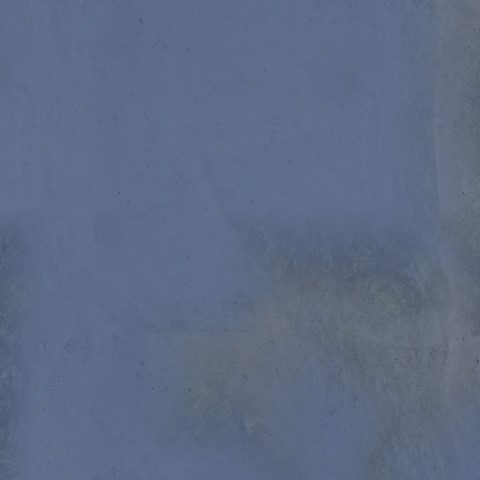
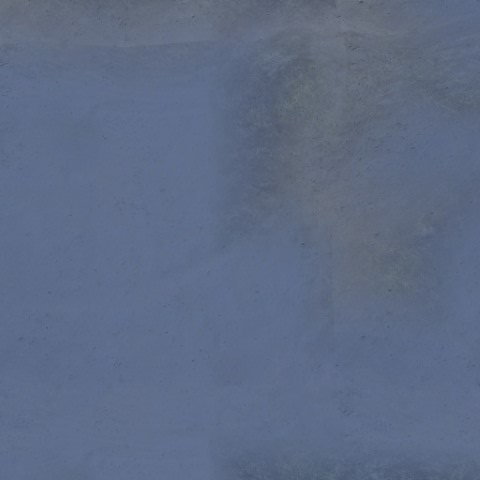
Skybox tweaks

diff --git a/skybox.cpp b/skybox.cpp
@@ -10,7 +10,7 @@ void Skybox::draw(Camera& camera) {
     skybox_view = glm::mat4(glm::mat3(camera.getViewMatrix()));
 
     
-    glm::mat4 projection_matrix = camera.getProjectionMatrix();
+    glm::mat4 projection_matrix = glm::perspective(glm::radians(60.f), 1.f, 0.1f, 100.f);;
     shader.setProjection(projection_matrix);
     shader.setView(skybox_view);
 
